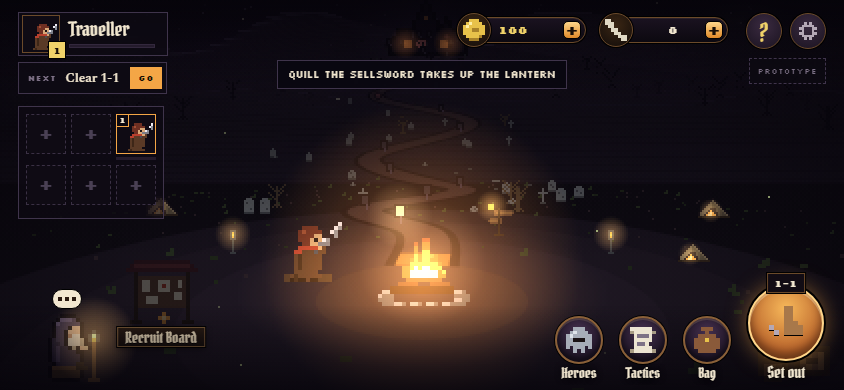
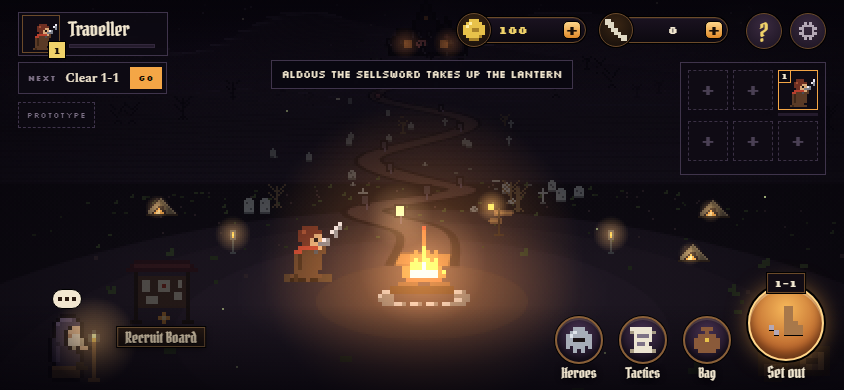
The formation panel moves to the right, under gold and bone dust
The user's change to the party view (play-test notes, 2026-11-04): the
formation panel leaves the left side, which keeps the Hearth panel, the
next goal, the Recruit Board with its chip and Wick in the corner, and
stands at the right under the purse row (right 18px, top 62px), clear of
the ribbon and Set out's tag. The grid, tiles, levels, fatigue bars and
drag-to-swap are unchanged. The play-test-only Prototype chip moves to the
left under the goal, out of the panel's way.

docs/mockups/camp-views.html is copied again from the main checkout with
the move. The screenshots are taken again.

diff --git a/docs/mockups/camp-views.html b/docs/mockups/camp-views.html
@@ -100,8 +100,8 @@ button{font:inherit;color:inherit;background:none;border:0;padding:0;cursor:poin
 .big .tag .el{display:inline-block;width:7px;height:7px;background:var(--blood);transform:rotate(45deg)}
 .big .tag img{width:12px;height:12px}
 
-/* left: the formation as it stands in battle — back two columns, front one — with level and fatigue */
-.form{position:absolute;left:18px;top:106px;display:grid;grid-template-columns:repeat(3,40px);gap:5px;padding:7px;background:rgba(14,10,20,.72);border:1px solid var(--rule)}
+/* right: the formation as it stands in battle — back two columns, front one — with level and fatigue */
+.form{position:absolute;right:18px;top:62px;display:grid;grid-template-columns:repeat(3,40px);gap:5px;padding:7px;background:rgba(14,10,20,.72);border:1px solid var(--rule)}
 .form .tv{position:relative;width:40px;height:46px;display:grid;justify-items:center;align-content:start;gap:3px}
 .form .fc{position:relative;width:40px;height:40px;border:1px solid #4a3a52;background:#0f0b14;display:grid;place-items:center}
 .form .fc img{width:34px;height:34px}
@@ -158,7 +158,7 @@ button{font:inherit;color:inherit;background:none;border:0;padding:0;cursor:poin
       <li><b>Gone:</b> the Party and Buildings switch (you drag instead), the Road button (you tap the road) and the stage card.</li>
       <li><b>Heroes, Tactics and Bag</b> are round icons in the bottom-right ribbon, the same in both views.</li>
       <li><b>One big button in the corner</b> does the view’s main job. In the party view it’s Set out, with the next stage on its tag. In the buildings view it’s Collect, with what’s waiting.</li>
-      <li><b>The formation</b> is a small grid at the left, laid out as it stands in battle. Tap a face for the hero; drag to swap places.</li>
+      <li><b>The formation</b> is a small grid at the right, under gold and bone dust, laid out as it stands in battle. Tap a face for the hero; drag to swap places.</li>
       <li><b>Gold and bone dust</b> sit at top right, in bars with their icon over the end, leaving the top centre to the road’s end. + goes to where you earn more: the Toll House for gold, the Scavenger Camp for bone dust.</li>
     </ul>
   </section>

diff --git a/css/camp.css b/css/camp.css
@@ -42,7 +42,7 @@
 .cv-corner{position:absolute;right:18px;top:13px;display:flex;gap:8px}
 .camp .cv-round{width:36px;height:36px;border-radius:50%;display:grid;place-items:center;background:radial-gradient(circle at 50% 35%,#3a2a40,#1a1320);border:1px solid var(--trim);box-shadow:0 0 0 1px #000;font:400 23px/1 var(--f-display);color:var(--gold)}
 .cv-round img{width:18px;height:18px}
-.camp .cv-proto{position:absolute;right:18px;top:58px;min-height:26px;padding:0 8px;font:8px var(--f-pixel);letter-spacing:.1em;text-transform:uppercase;color:var(--dim);background:rgba(13,10,18,.7);border:1px dashed var(--rule)}
+.camp .cv-proto{position:absolute;left:18px;top:102px;min-height:26px;padding:0 8px;font:8px var(--f-pixel);letter-spacing:.1em;text-transform:uppercase;color:var(--dim);background:rgba(13,10,18,.7);border:1px dashed var(--rule)}
 
 /* bottom right: the ribbon of round buttons, and the corner's big button */
 .cv-dock{position:absolute;right:16px;bottom:10px;display:flex;align-items:flex-end;gap:10px}
@@ -61,8 +61,9 @@
 .cv-big .cv-tag img{width:12px;height:12px}
 .camp .cv-rb:active .cv-orb,.camp .cv-big:active .cv-orb{transform:scale(.95)}
 
-/* left: the formation as it stands in battle (two columns behind, the front on the right), with level and fatigue */
-.cv-form{position:absolute;left:18px;top:106px;display:grid;grid-template-columns:repeat(3,40px);gap:5px;padding:7px;background:rgba(14,10,20,.72);border:1px solid var(--rule);touch-action:none}
+/* right, under gold and bone dust (the user's move of 2026-11-04): the formation as it stands in battle (two columns
+   behind, the front on the right), with level and fatigue */
+.cv-form{position:absolute;right:18px;top:62px;display:grid;grid-template-columns:repeat(3,40px);gap:5px;padding:7px;background:rgba(14,10,20,.72);border:1px solid var(--rule);touch-action:none}
 .camp .cv-tile{position:relative;width:40px;height:46px;display:grid;justify-items:center;align-content:start;gap:3px}
 .cv-fc{position:relative;width:40px;height:40px;border:1px solid #4a3a52;background:#0f0b14;display:grid;place-items:center}
 .cv-fc img{width:34px;height:34px}

diff --git a/README.md b/README.md
@@ -8,7 +8,7 @@ Open `index.html` in a browser. It needs no build step and no internet connectio
 
 - **The five regions:** the Gravefields (levels 1–10, the Sexton), the Drowned Chapel (11–30, the Drowned Bishop), Thornwood (31–50, the Antlered One), the Ashen Keep (51–75, the Burnt Marshal) and the Hollow Throne (76–100, the Hollow King). Each has its own foes, battle backdrop, weather, map and material, and each boss's first clear grants its Relic and opens the next region, with its buildings and the classes that join the Recruit Board. The first time the party walks into a region, its name comes up before the stage's.
 
-- **The Hearth:** the camp, the main screen, as views around one fire (screen 2; the design is `docs/mockups/camp-views.html`). Drag sideways (or press ← and →) to turn the camera; let go and it eases to the nearer view, at once with Reduced motion. The **party view** is close on the fire: the party sits round it in their gear, the Recruit Board stands among them on the left, Wick, the lamp-keeper, keeps to the bottom-left corner, and the amber road zigzags away behind the fire to the boss's chapel, showing the frontier region's stages: lit lanterns glow, elites are red diamonds and the boss a skull, the frontier lantern gutters, and past it the road is dark. The **buildings view** is turned 180°, lower and further back: the plots open from the middle outwards, built ones show their building, empty ones the plot, and plots Renown hasn't cleared are gaps; the camp's wall, the graveyard, the crypt and will-o'-wisps lie beyond. The camera stays with the party until the first blueprint comes. Over the scene: the lead hero's face, your name (Traveller until Wick's welcome brings one) and Renown (tap for its track); the next goal, with Go (a free recruit, points to spend, a blueprint to build, buildings to collect from, or the frontier stage to clear); gold and bone dust, each with + to where you earn more; ? (help) and ⚙ (Settings); the formation as it stands in battle, with level and fatigue (tap a face for the hero, drag to swap places, tap an empty slot to add someone); and the ribbon of Heroes, Tactics and Bag beside the corner's big button, Set out (the Road with the frontier's stage sheet open) in the party view and Collect (every building's store, as Gather it all does) in the buildings view. Plaques name what stands in the scene and amber chips show what's waiting. Tap the road for the Road map, a building to open it, an empty plot to build, the board to recruit, a hero or Wick for a word, or the fire for its free Healing Draughts. The Hearth has no tab bar; the other screens' Hearth tab comes back to it.
+- **The Hearth:** the camp, the main screen, as views around one fire (screen 2; the design is `docs/mockups/camp-views.html`). Drag sideways (or press ← and →) to turn the camera; let go and it eases to the nearer view, at once with Reduced motion. The **party view** is close on the fire: the party sits round it in their gear, the Recruit Board stands among them on the left, Wick, the lamp-keeper, keeps to the bottom-left corner, and the amber road zigzags away behind the fire to the boss's chapel, showing the frontier region's stages: lit lanterns glow, elites are red diamonds and the boss a skull, the frontier lantern gutters, and past it the road is dark. The **buildings view** is turned 180°, lower and further back: the plots open from the middle outwards, built ones show their building, empty ones the plot, and plots Renown hasn't cleared are gaps; the camp's wall, the graveyard, the crypt and will-o'-wisps lie beyond. The camera stays with the party until the first blueprint comes. Over the scene: the lead hero's face, your name (Traveller until Wick's welcome brings one) and Renown (tap for its track); the next goal, with Go (a free recruit, points to spend, a blueprint to build, buildings to collect from, or the frontier stage to clear); gold and bone dust, each with + to where you earn more; ? (help) and ⚙ (Settings); the formation as it stands in battle, at the right under gold and bone dust, with level and fatigue (tap a face for the hero, drag to swap places, tap an empty slot to add someone); and the ribbon of Heroes, Tactics and Bag beside the corner's big button, Set out (the Road with the frontier's stage sheet open) in the party view and Collect (every building's store, as Gather it all does) in the buildings view. Plaques name what stands in the scene and amber chips show what's waiting. Tap the road for the Road map, a building to open it, an empty plot to build, the board to recruit, a hero or Wick for a word, or the fire for its free Healing Draughts. The Hearth has no tab bar; the other screens' Hearth tab comes back to it.
 - **Buildings:** 3 plots to start, up to 14. Fifteen buildings, each with five levels: the Recruit Board (outside the plots), Toll House, Infirmary, Training Yard, Shop, Tactician, Scavenger Camp, Barracks, Salvage Pit, Masters' Hall, Shrine, and the passive Whetstone, Ossuary, Hexing Stone and Bell Tower. Region I's first clears turn them into blueprints. Building is instant; levels 1–2 cost gold and Bone Dust, and level 3 and up the building's home material. Levels 3 and 5 offer a choice of two, which can be switched later. Tearing a building down frees its plot and gives nothing back; what it taught stays.
 - **Renown:** the account level. Stages lit, battle XP, bosses, level thresholds, new classes, and buildings built or upgraded raise it, and it clears plots 4 to 14. Tapping your panel at the Hearth's top left opens its track.
 - **The Recruit Board:** it opens at 1-2, and its first recruit is free. Each board shows recruits with rolled stats (bars show where each roll falls in its class's range), priced by level and quality: one hire per board, and a new board when the party comes home or every 4 hours. Its three tracks add recruits, picks and higher levels, up to storied recruits who arrive combined or awakened. The Barracks raises the roster cap from 8. Swipe a hero left on the Party tab to dismiss them: only their gear comes back.
